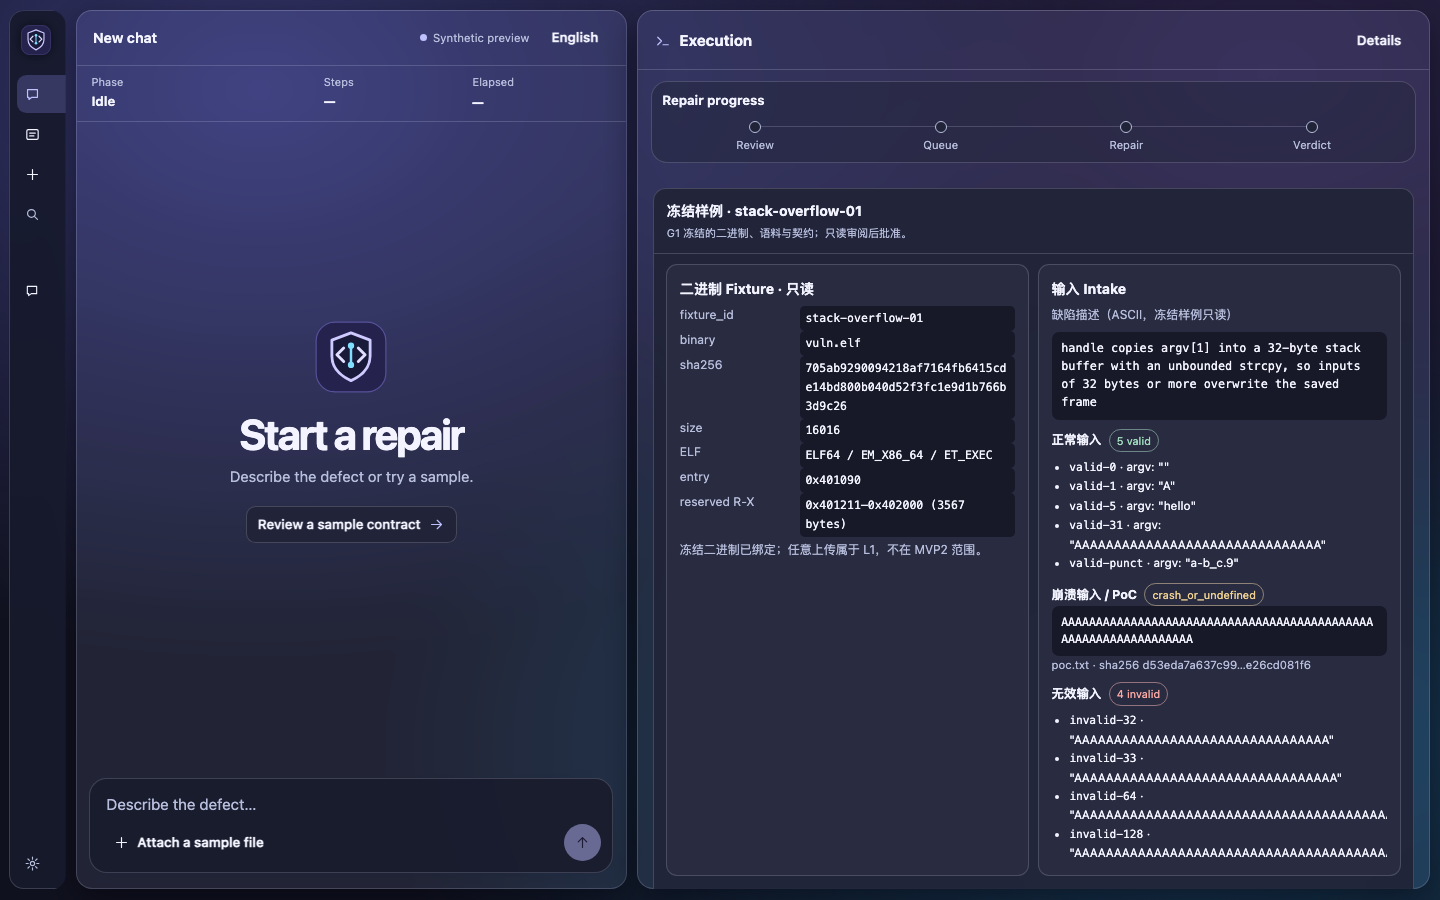
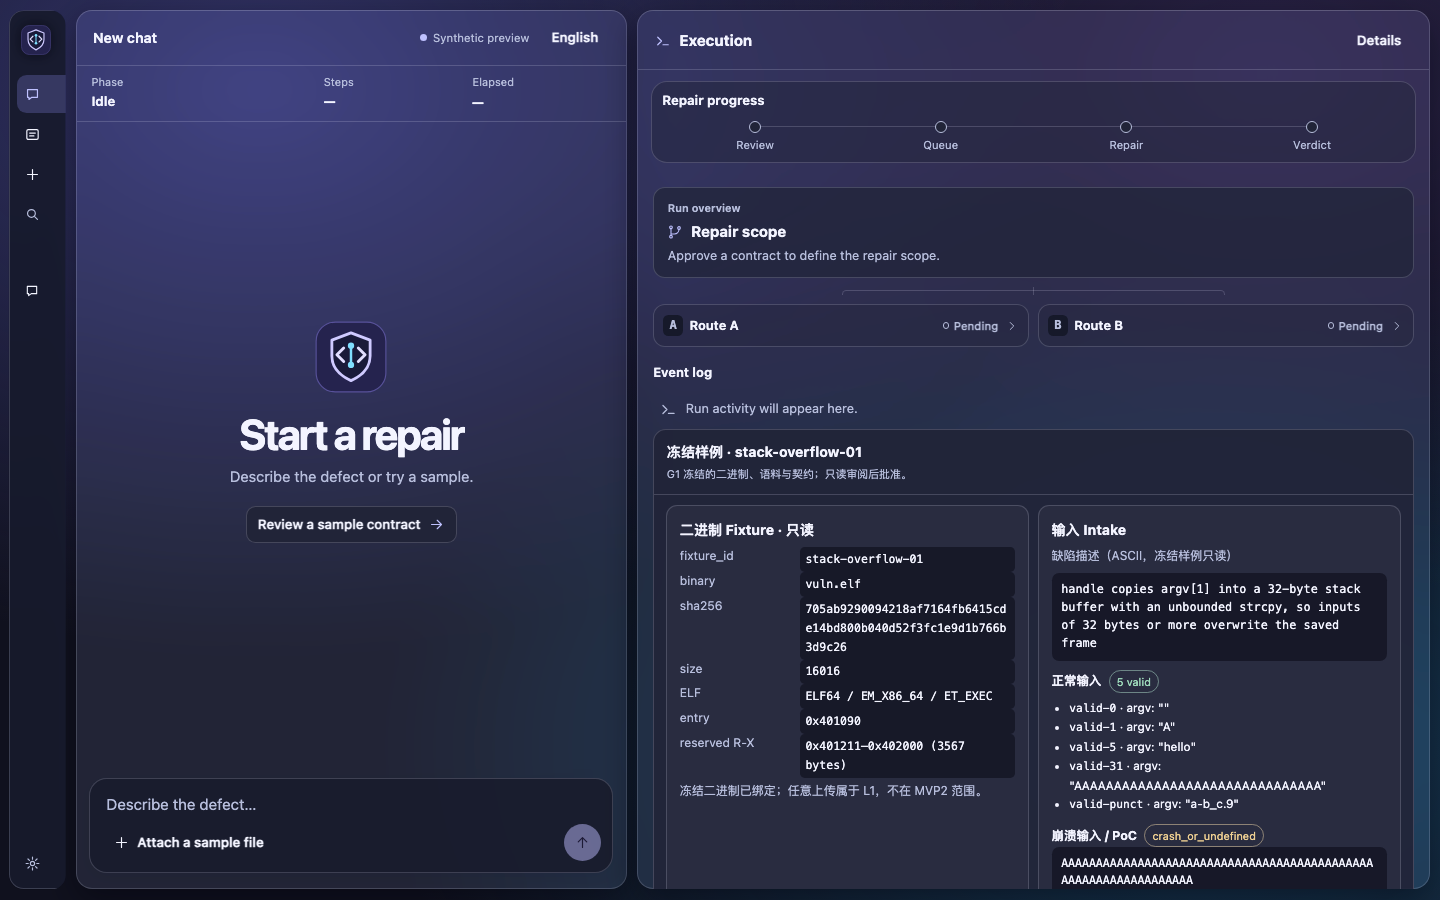
fix(gui): preserve Route A/B panels beside inline review

Changed region(s): [[0.4375, 0.2178, 0.9688, 0.9956], [0.4688, 0.7778, 0.5312, 0.84], [0.6562, 0.7467, 0.6875, 0.7778]]

diff --git a/app/static/ui/chat/index.html b/app/static/ui/chat/index.html
@@ -14,10 +14,10 @@
   <link rel="stylesheet" href="shared/perf.css?v=20261120au">
   <link rel="stylesheet" href="chat/guided.css?v=20261120au">
   <link rel="stylesheet" href="chat/events.css?v=20261120au">
-  <link rel="stylesheet" href="chat/inline-host.css?v=20261120aw">
+  <link rel="stylesheet" href="chat/inline-host.css?v=20261121a">
   <script type="module" src="shared/perf.mjs?v=20261120au"></script>
   <script type="module" src="chat/chat-app.mjs?v=20261120au"></script>
-  <script type="module" src="chat/inline-host.mjs?v=20261120aw"></script>
+  <script type="module" src="chat/inline-host.mjs?v=20261121a"></script>
 </head>
 <body>
   <a class="skip" id="skip" href="#conversation">Skip to conversation</a>

diff --git a/app/static/ui/chat/inline-host.css b/app/static/ui/chat/inline-host.css
@@ -1,7 +1,5 @@
 .guided-launch { display: none !important; }
 .workspace.xr-inline-mode .execution-scroll { display: block !important; }
-.workspace.xr-inline-mode .route-overview,
-.workspace.xr-inline-mode .trace { display: none; }
 dialog.xr-inline {
   position: static; inset: auto; width: auto; max-width: none; max-height: none;
   margin: 0 0 .8rem; padding: 0; border: 1px solid var(--line); border-radius: .8rem;

diff --git a/tests/app/test_ui_preview_assets.py b/tests/app/test_ui_preview_assets.py
@@ -77,6 +77,10 @@ class PreviewAssetsTest(unittest.TestCase):
         page = (UI_ROOT / "chat/index.html").read_text(encoding="utf-8")
         self.assertIn("inline-host.css", page)
         self.assertIn("inline-host.mjs", page)
+        css = (UI_ROOT / "chat/inline-host.css").read_text(encoding="utf-8")
+        self.assertNotIn(".route-overview", css)
+        self.assertNotIn(".trace", css)
+
     def test_s6_archive_bridge_assets_are_present(self):
         for path in ("workbench/archive-bridge.css", "workbench/archive-bridge.mjs"):
             self.assert_local_file(UI_ROOT, path)

diff --git a/docs/gui/s2-guided-intake.md b/docs/gui/s2-guided-intake.md
@@ -7,7 +7,9 @@ Status: implemented on `m2/gui-console-s1` (S1+S2), 2026-11-20.
 The S2 review is rendered inline in the existing right-side execution pane,
 not in a modal. `chat/inline-host.mjs` moves the existing guided dialog into
 `#execution-pane .execution-scroll`; the main chat hero no longer shows the two
-launch icons. The inline review contains:
+launch icons. The existing Route A and Route B parallel expandable panels stay
+intact, and the inline review is appended to the same execution scroll. The
+inline review contains:
 
 - frozen binary identity (`vuln.elf`, SHA-256, size, ELF facts, entry, reserved R-X tail)
 - defect description, five normal inputs, invalid inputs, and the crash/PoC input

diff --git a/docs/gui/s3-api-events.md b/docs/gui/s3-api-events.md
@@ -28,4 +28,4 @@ verdict or success. The GUI never imports pipeline modules.
 After Start, the existing S3 event dialog is moved inline into the execution
 pane as well; it renders the SSE timeline (plan steps, corpus, commands,
 changes, checks, audit table, error, run_end) plus real analysis, artifact
-downloads and persisted evidence. The main chat hero has no S3 launch icon.
+downloads and persisted evidence. The existing Route A and Route B parallel expandable panels remain in place; the S2 review and S3 journal are appended below them in the same scroll area. The main chat hero has no S3 launch icon.
